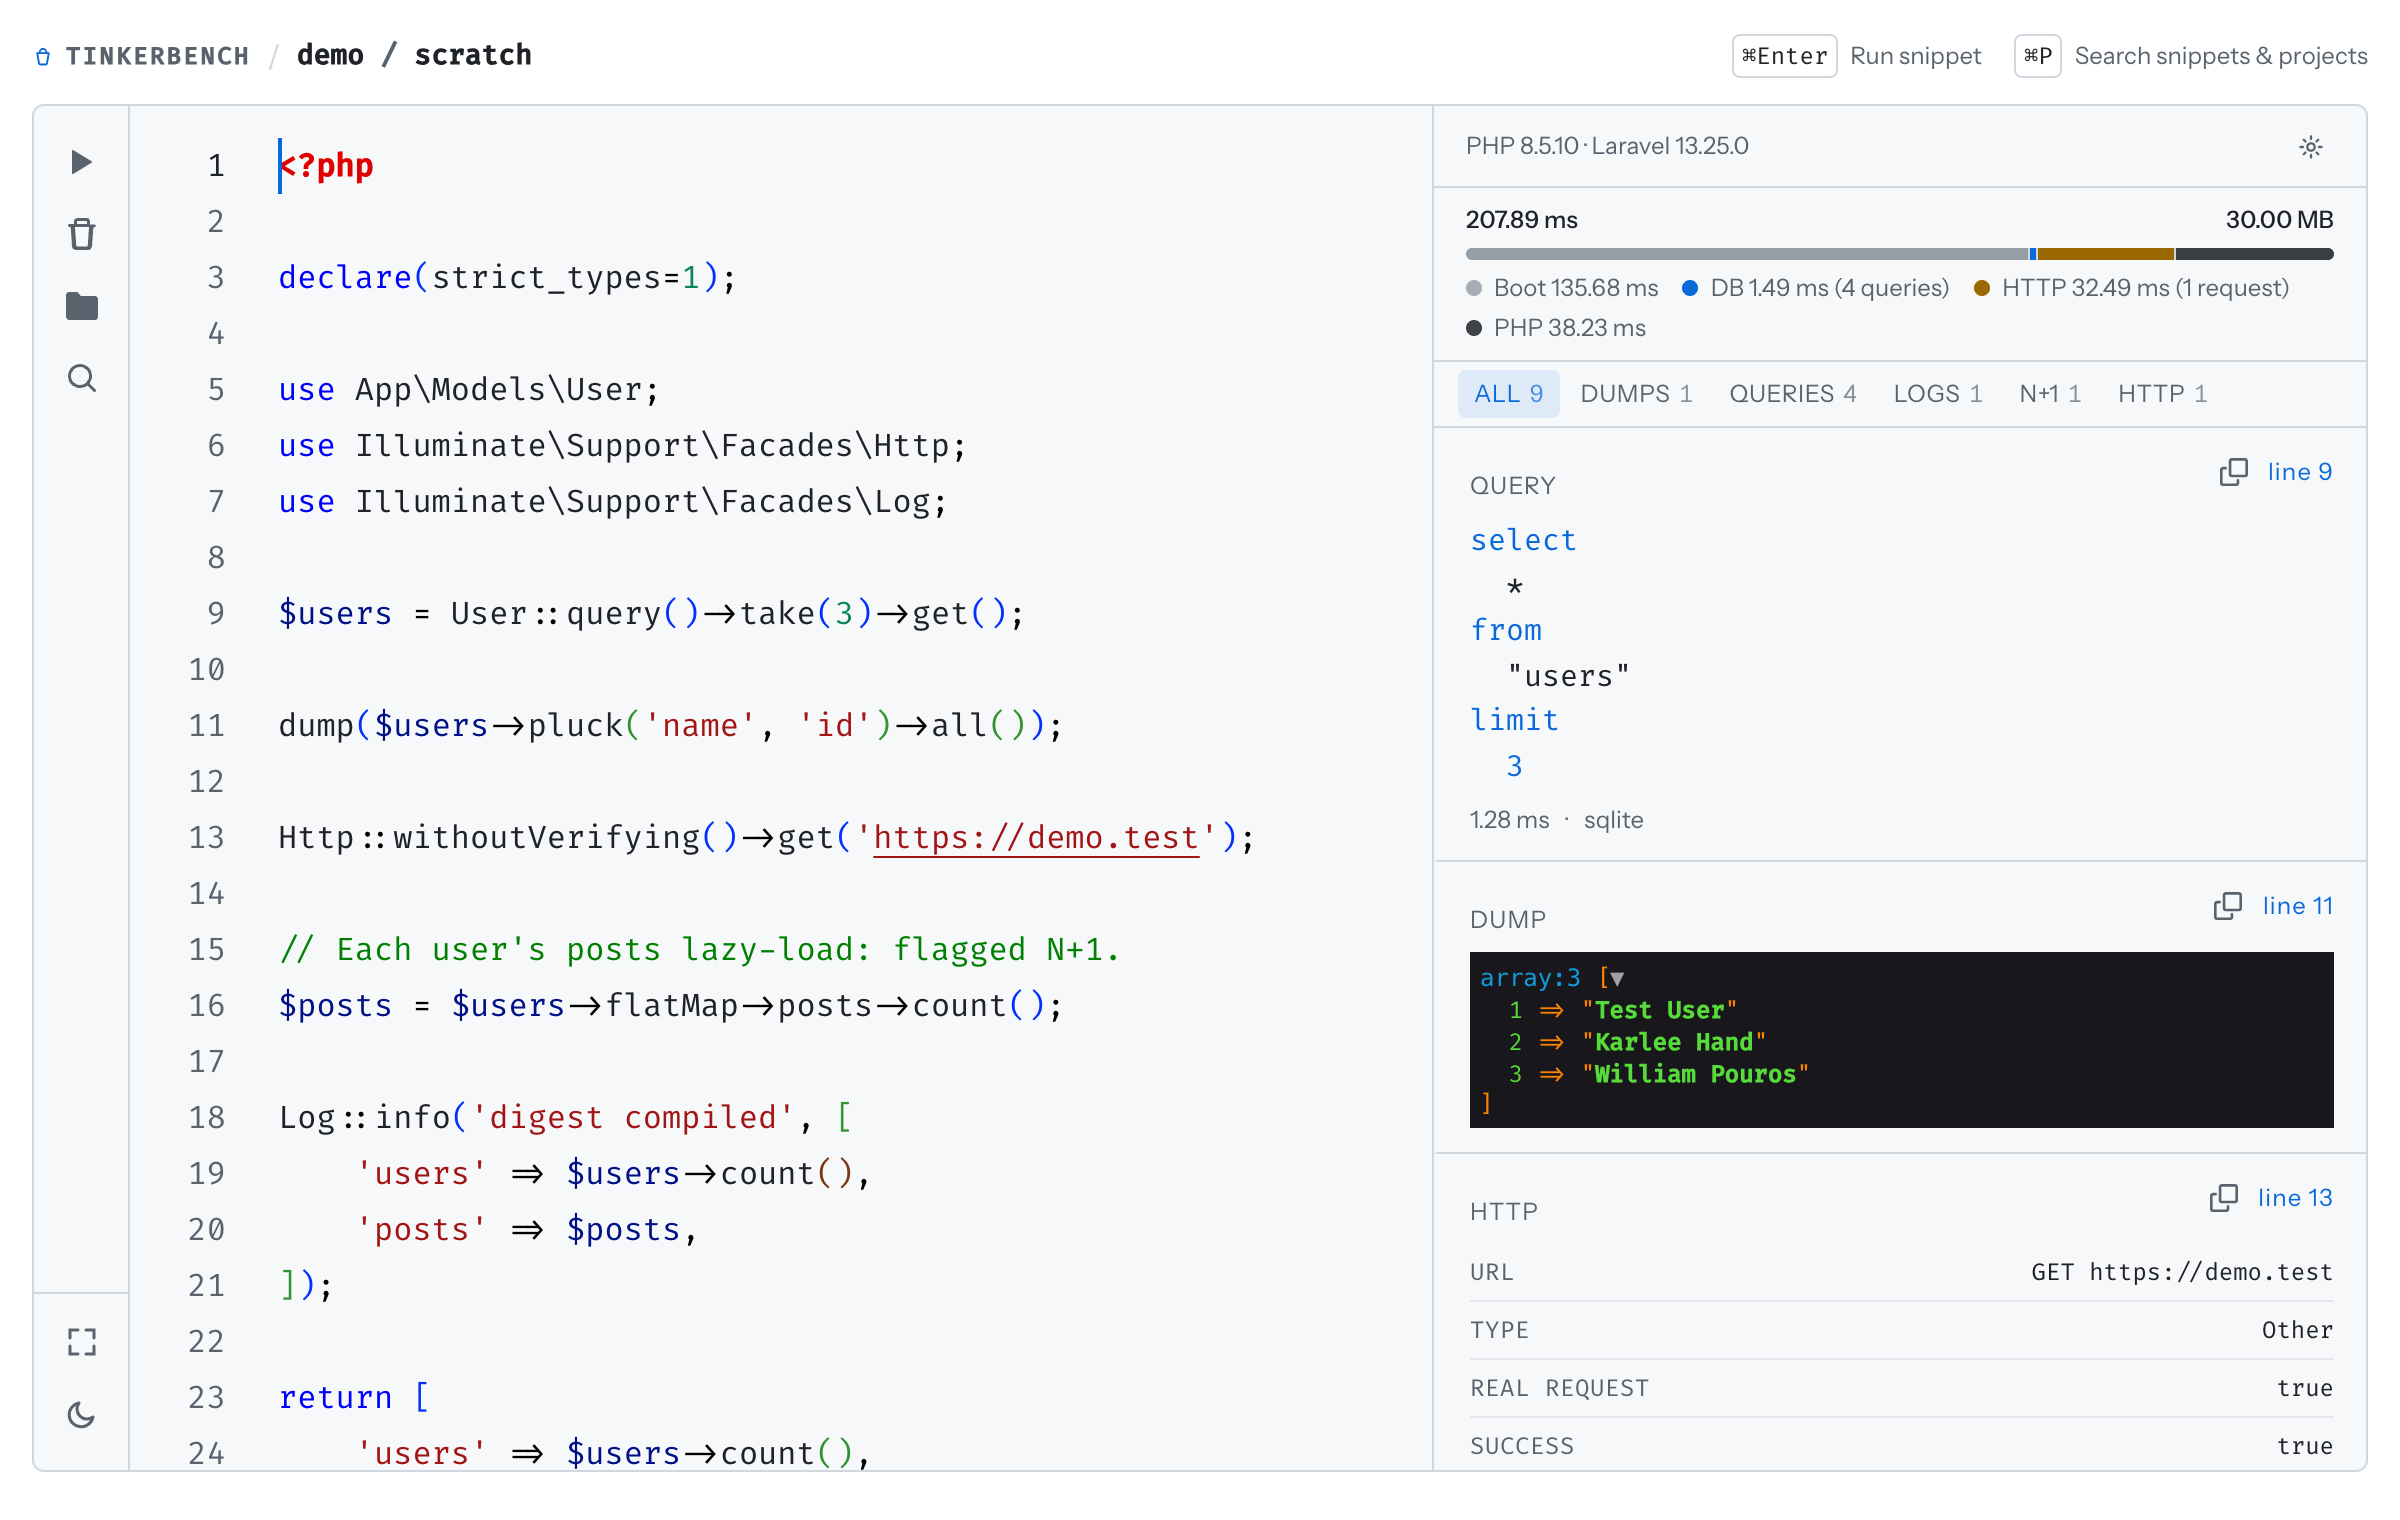
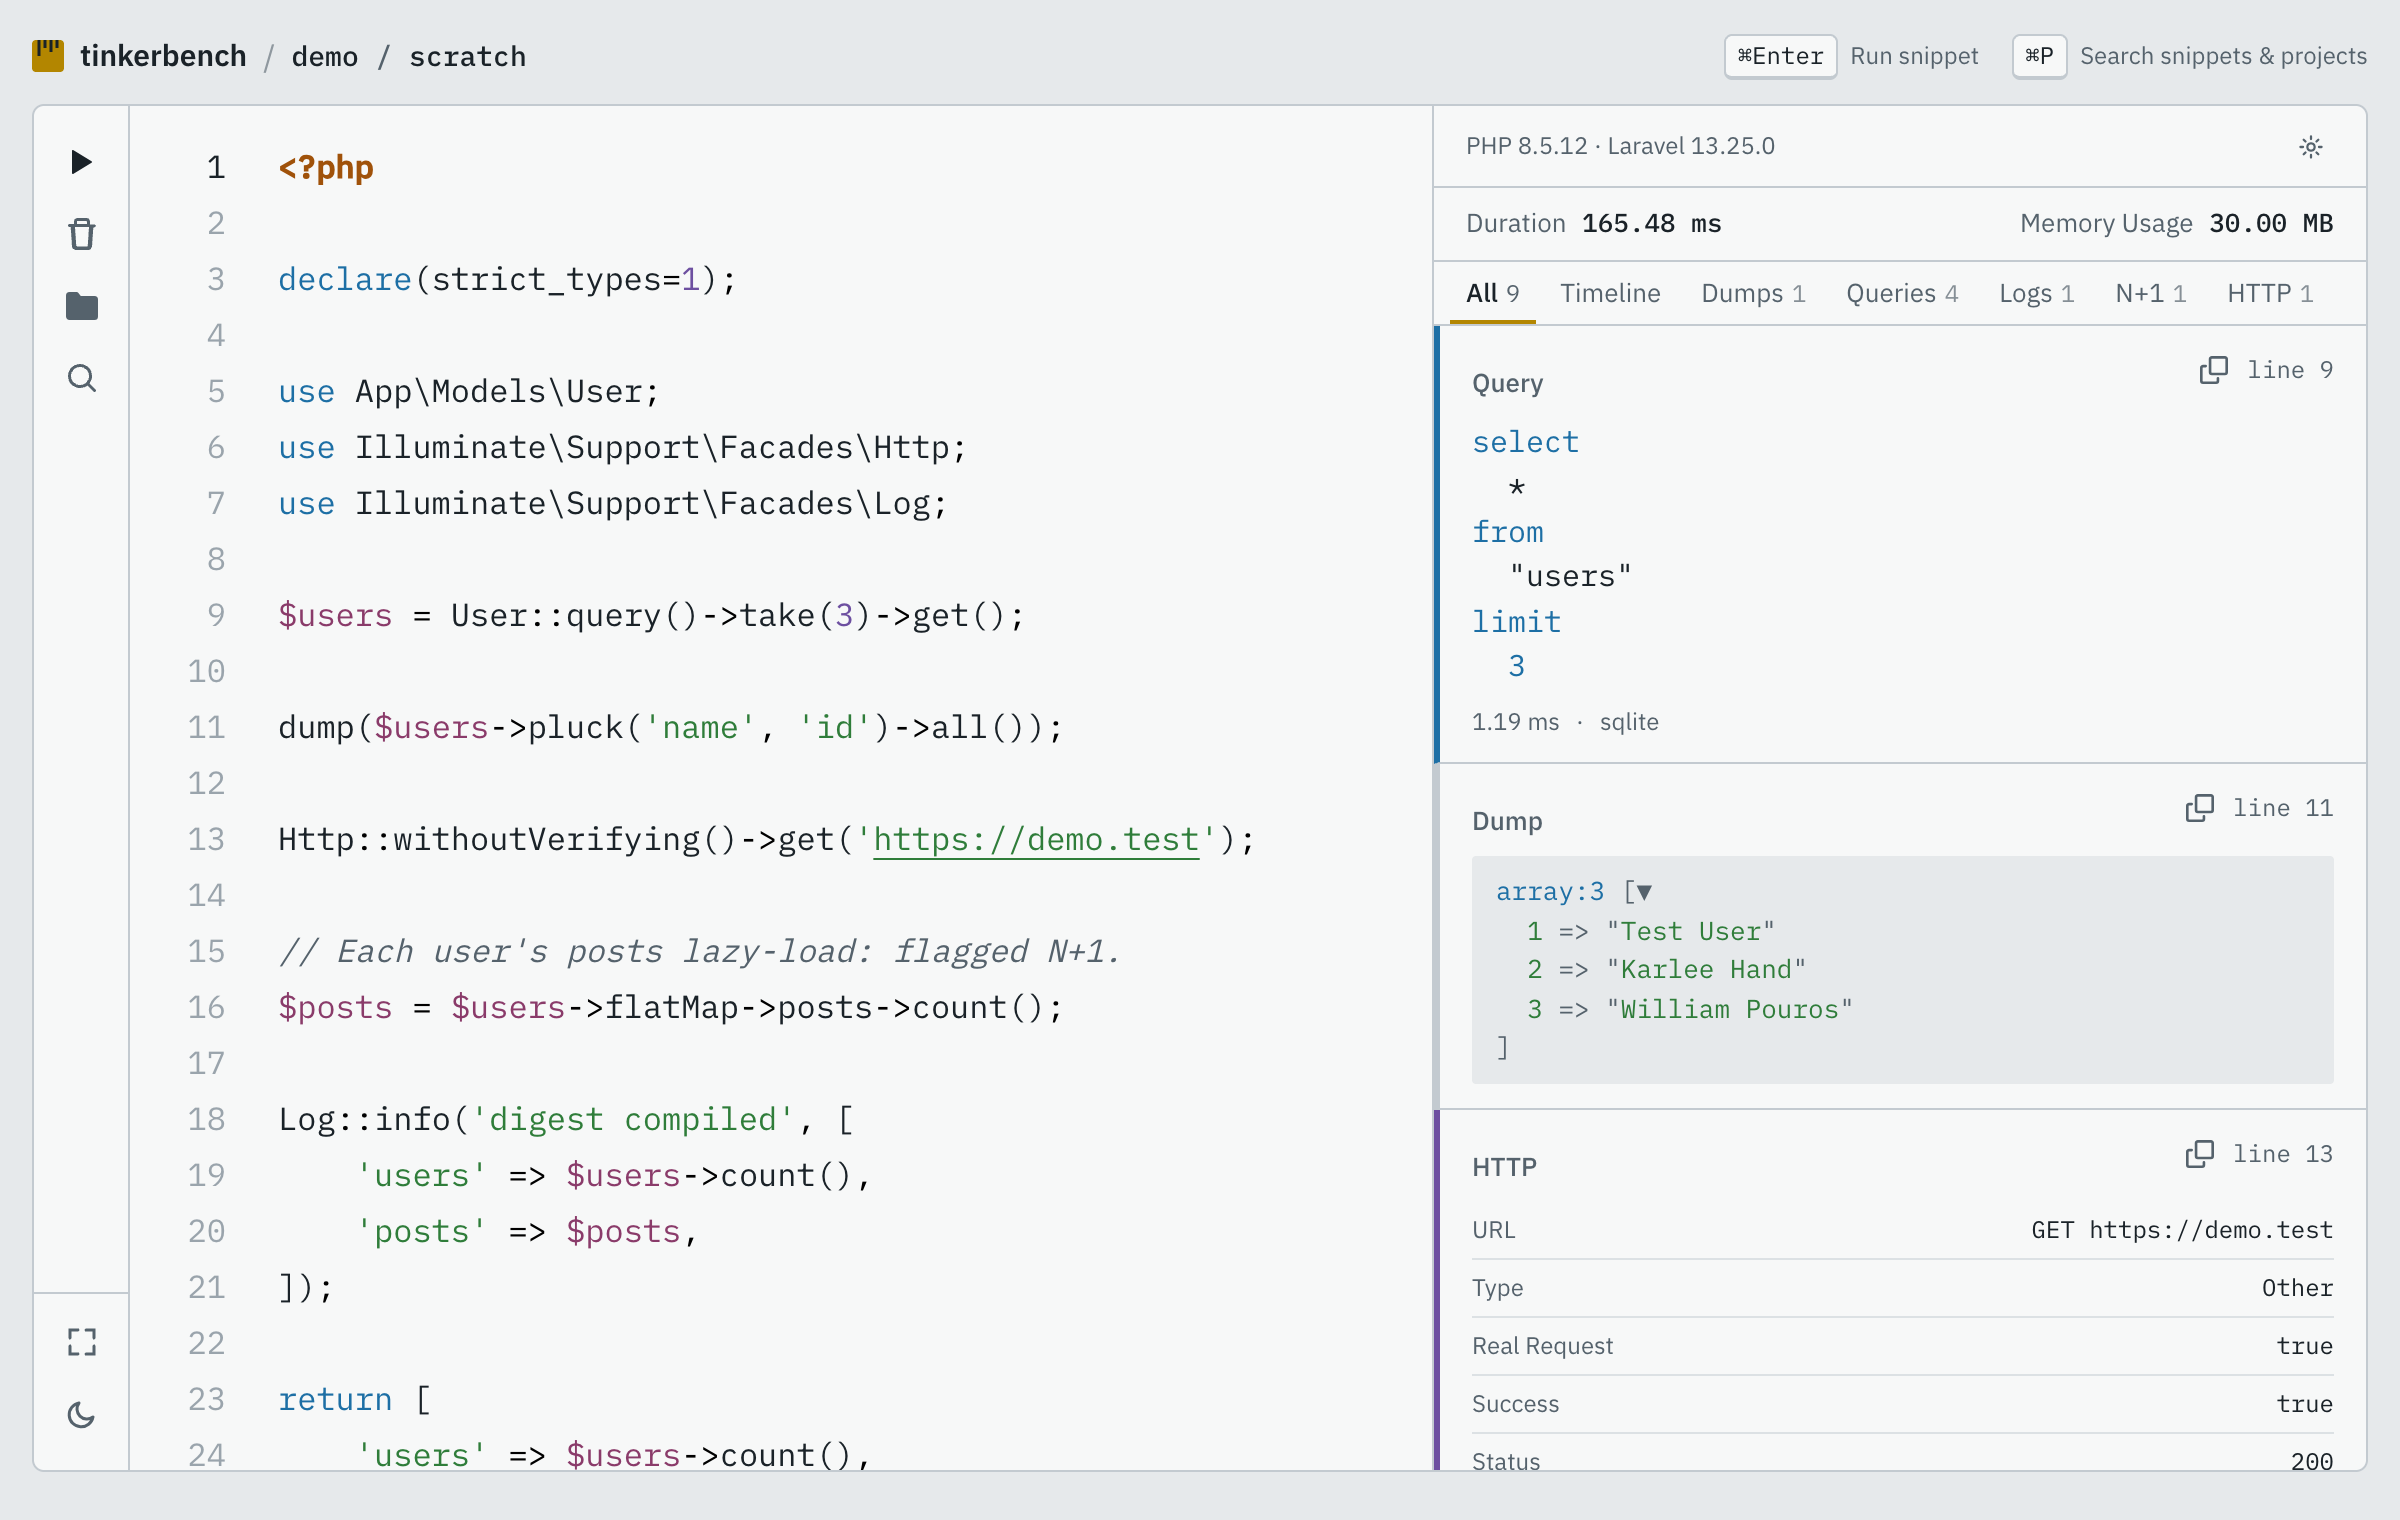
Switch to IBM Plex Sans, retheme VarDumper output to the bench palette, raise Monaco and kind color contrast with distinct variable tokens, mute card line links, and simplify the empty feed hints

diff --git a/resources/css/app.css b/resources/css/app.css
@@ -5,7 +5,7 @@
 
 @theme inline {
     --font-sans:
-        'IBM Plex Sans Condensed', ui-sans-serif, system-ui, sans-serif,
+        'IBM Plex Sans', ui-sans-serif, system-ui, sans-serif,
         'Apple Color Emoji', 'Segoe UI Emoji', 'Segoe UI Symbol',
         'Noto Color Emoji';
     --font-mono: 'IBM Plex Mono', Menlo, monospace;
@@ -24,7 +24,7 @@
     --color-kind-view: var(--kind-view);
 }
 
-/* The bench: aluminium and graphite surfaces, coolant blue for links and SQL, and marking yellow
+/* The bench: aluminium and graphite surfaces, coolant blue for code keywords, and marking yellow
    kept for small marks only (the logo, the active tab, the editor cursor). Kind colors mark each
    feed card's edge like coded tool handles, so a card's kind reads before its label does. */
 :root {
@@ -33,11 +33,11 @@
     --line: #c3cad0;
     --fg: #1a2228;
     --muted: #55626c;
-    --accent: #2f6e8f;
+    --accent: #1d6fa5;
     --danger: #b42318;
     --warn: #a0520a;
-    --measure: #d9a400;
-    --kind-log: #3f7d4e;
+    --measure: #b38600;
+    --kind-log: #2f7d3a;
     --kind-http: #6d4fa0;
     --kind-view: #7a8892;
 }
@@ -48,11 +48,11 @@
     --line: #3a4249;
     --fg: #dce2e6;
     --muted: #8d99a3;
-    --accent: #6fb1d2;
+    --accent: #62b0e8;
     --danger: #f07466;
     --warn: #f0a04b;
     --measure: #f0c030;
-    --kind-log: #7cc28a;
+    --kind-log: #86d094;
     --kind-http: #b49ae0;
     --kind-view: #8d99a3;
 }
@@ -91,6 +91,54 @@
     .measure-in {
         animation: none;
     }
+}
+
+/* Symfony VarDumper injects its own near-black theme as an inline <style> after this sheet, so
+   these rules need the extra `html` to outrank its `pre.sf-dump` selectors. */
+html pre.sf-dump {
+    background-color: var(--canvas);
+    color: var(--muted);
+    font-family: var(--font-mono);
+    font-size: 13px;
+    line-height: 1.5;
+    padding: 0.5rem 0.75rem;
+    border-radius: 2px;
+}
+
+html pre.sf-dump .sf-dump-default {
+    background-color: transparent;
+    color: var(--muted);
+}
+
+html pre.sf-dump .sf-dump-str,
+html pre.sf-dump .sf-dump-key {
+    color: var(--kind-log);
+    font-weight: 400;
+}
+
+html pre.sf-dump .sf-dump-num,
+html pre.sf-dump .sf-dump-index {
+    color: var(--kind-http);
+    font-weight: 400;
+}
+
+html pre.sf-dump .sf-dump-const,
+html pre.sf-dump .sf-dump-public,
+html pre.sf-dump .sf-dump-protected,
+html pre.sf-dump .sf-dump-private {
+    color: var(--fg);
+    font-weight: 400;
+}
+
+html pre.sf-dump .sf-dump-note,
+html pre.sf-dump .sf-dump-ellipsis-note {
+    color: var(--accent);
+}
+
+html pre.sf-dump .sf-dump-meta,
+html pre.sf-dump .sf-dump-ref,
+html pre.sf-dump .sf-dump-ellipsis {
+    color: var(--muted);
 }
 
 /* Inertia's <x-inertia::app /> renders a bare <div id="app"> with no way to attach a Tailwind

diff --git a/resources/js/components/MonacoEditor.vue b/resources/js/components/MonacoEditor.vue
@@ -67,10 +67,10 @@ onMounted(() => {
         inherit: true,
         rules: [
             { token: 'comment', foreground: '8D99A3', fontStyle: 'italic' },
-            { token: 'keyword', foreground: '6FB1D2' },
-            { token: 'string', foreground: '7CC28A' },
+            { token: 'keyword', foreground: '62B0E8' },
+            { token: 'string', foreground: '86D094' },
             { token: 'number', foreground: 'B49AE0' },
-            { token: 'variable', foreground: 'DCE2E6' },
+            { token: 'variable', foreground: 'D99AC0' },
             { token: 'metatag', foreground: 'F0C030' },
         ],
         colors: {
@@ -81,7 +81,7 @@ onMounted(() => {
             'editorLineNumber.activeForeground': '#DCE2E6',
             'editor.lineHighlightBackground': '#2E343A',
             'editorCursor.foreground': '#F0C030',
-            'editor.selectionBackground': '#6FB1D233',
+            'editor.selectionBackground': '#62B0E833',
             // Brackets stay ink-colored: colored nesting levels would compete with the kind colors.
             'editorBracketHighlight.foreground1': '#DCE2E6',
             'editorBracketHighlight.foreground2': '#DCE2E6',
@@ -96,10 +96,10 @@ onMounted(() => {
         inherit: true,
         rules: [
             { token: 'comment', foreground: '55626C', fontStyle: 'italic' },
-            { token: 'keyword', foreground: '2F6E8F' },
-            { token: 'string', foreground: '3F7D4E' },
+            { token: 'keyword', foreground: '1D6FA5' },
+            { token: 'string', foreground: '2F7D3A' },
             { token: 'number', foreground: '6D4FA0' },
-            { token: 'variable', foreground: '1A2228' },
+            { token: 'variable', foreground: '8A3B6A' },
             { token: 'metatag', foreground: 'A0520A' },
         ],
         colors: {
@@ -110,7 +110,7 @@ onMounted(() => {
             'editorLineNumber.activeForeground': '#1A2228',
             'editor.lineHighlightBackground': '#EEF0F1',
             'editorCursor.foreground': '#1A2228',
-            'editor.selectionBackground': '#2F6E8F26',
+            'editor.selectionBackground': '#1D6FA526',
             // Brackets stay ink-colored: colored nesting levels would compete with the kind colors.
             'editorBracketHighlight.foreground1': '#1A2228',
             'editorBracketHighlight.foreground2': '#1A2228',

diff --git a/resources/js/pages/Snippets/OpenSnippet.vue b/resources/js/pages/Snippets/OpenSnippet.vue
@@ -674,10 +674,9 @@ function toggleMaximize(): void {
                     >
                         <p
                             v-if="!hasRun"
-                            class="mx-auto max-w-xs px-4 py-10 text-center text-xs text-muted"
+                            class="px-4 py-6 text-[13px] text-muted"
                         >
-                            Run the snippet to see queries, dumps, logs and
-                            timing here.
+                            Run the snippet to see its output here.
                             <span class="mt-2 block">
                                 <kbd
                                     class="rounded-sm border border-b-2 border-line bg-canvas px-1.5 py-0.5 font-mono text-fg"
@@ -687,7 +686,7 @@ function toggleMaximize(): void {
                         </p>
                         <p
                             v-else-if="ranWithoutOutput && activeTab === 'all'"
-                            class="px-4 py-8 text-center text-xs text-muted"
+                            class="px-4 py-6 text-[13px] text-muted"
                         >
                             No output. Return a value or call dump() to see it
                             here.

diff --git a/resources/js/components/Card.vue b/resources/js/components/Card.vue
@@ -113,7 +113,7 @@ onBeforeUnmount(() => clearTimeout(resetTimer));
                 <button
                     v-if="line !== null"
                     type="button"
-                    class="-mx-1.5 -my-0.5 rounded px-1.5 py-1 font-mono text-xs text-accent hover:bg-line/50 hover:underline"
+                    class="-mx-1.5 -my-0.5 rounded px-1.5 py-1 font-mono text-xs text-muted hover:bg-line/50 hover:text-fg"
                     @click="emit('navigate', line)"
                 >
                     line {{ line }}

diff --git a/vite.config.ts b/vite.config.ts
@@ -81,7 +81,7 @@ export default defineConfig({
             input: ['resources/css/app.css', 'resources/js/app.ts'],
             refresh: true,
             fonts: [
-                bunny('IBM Plex Sans Condensed', {
+                bunny('IBM Plex Sans', {
                     weights: [400, 500, 600],
                 }),
                 bunny('IBM Plex Mono', {
